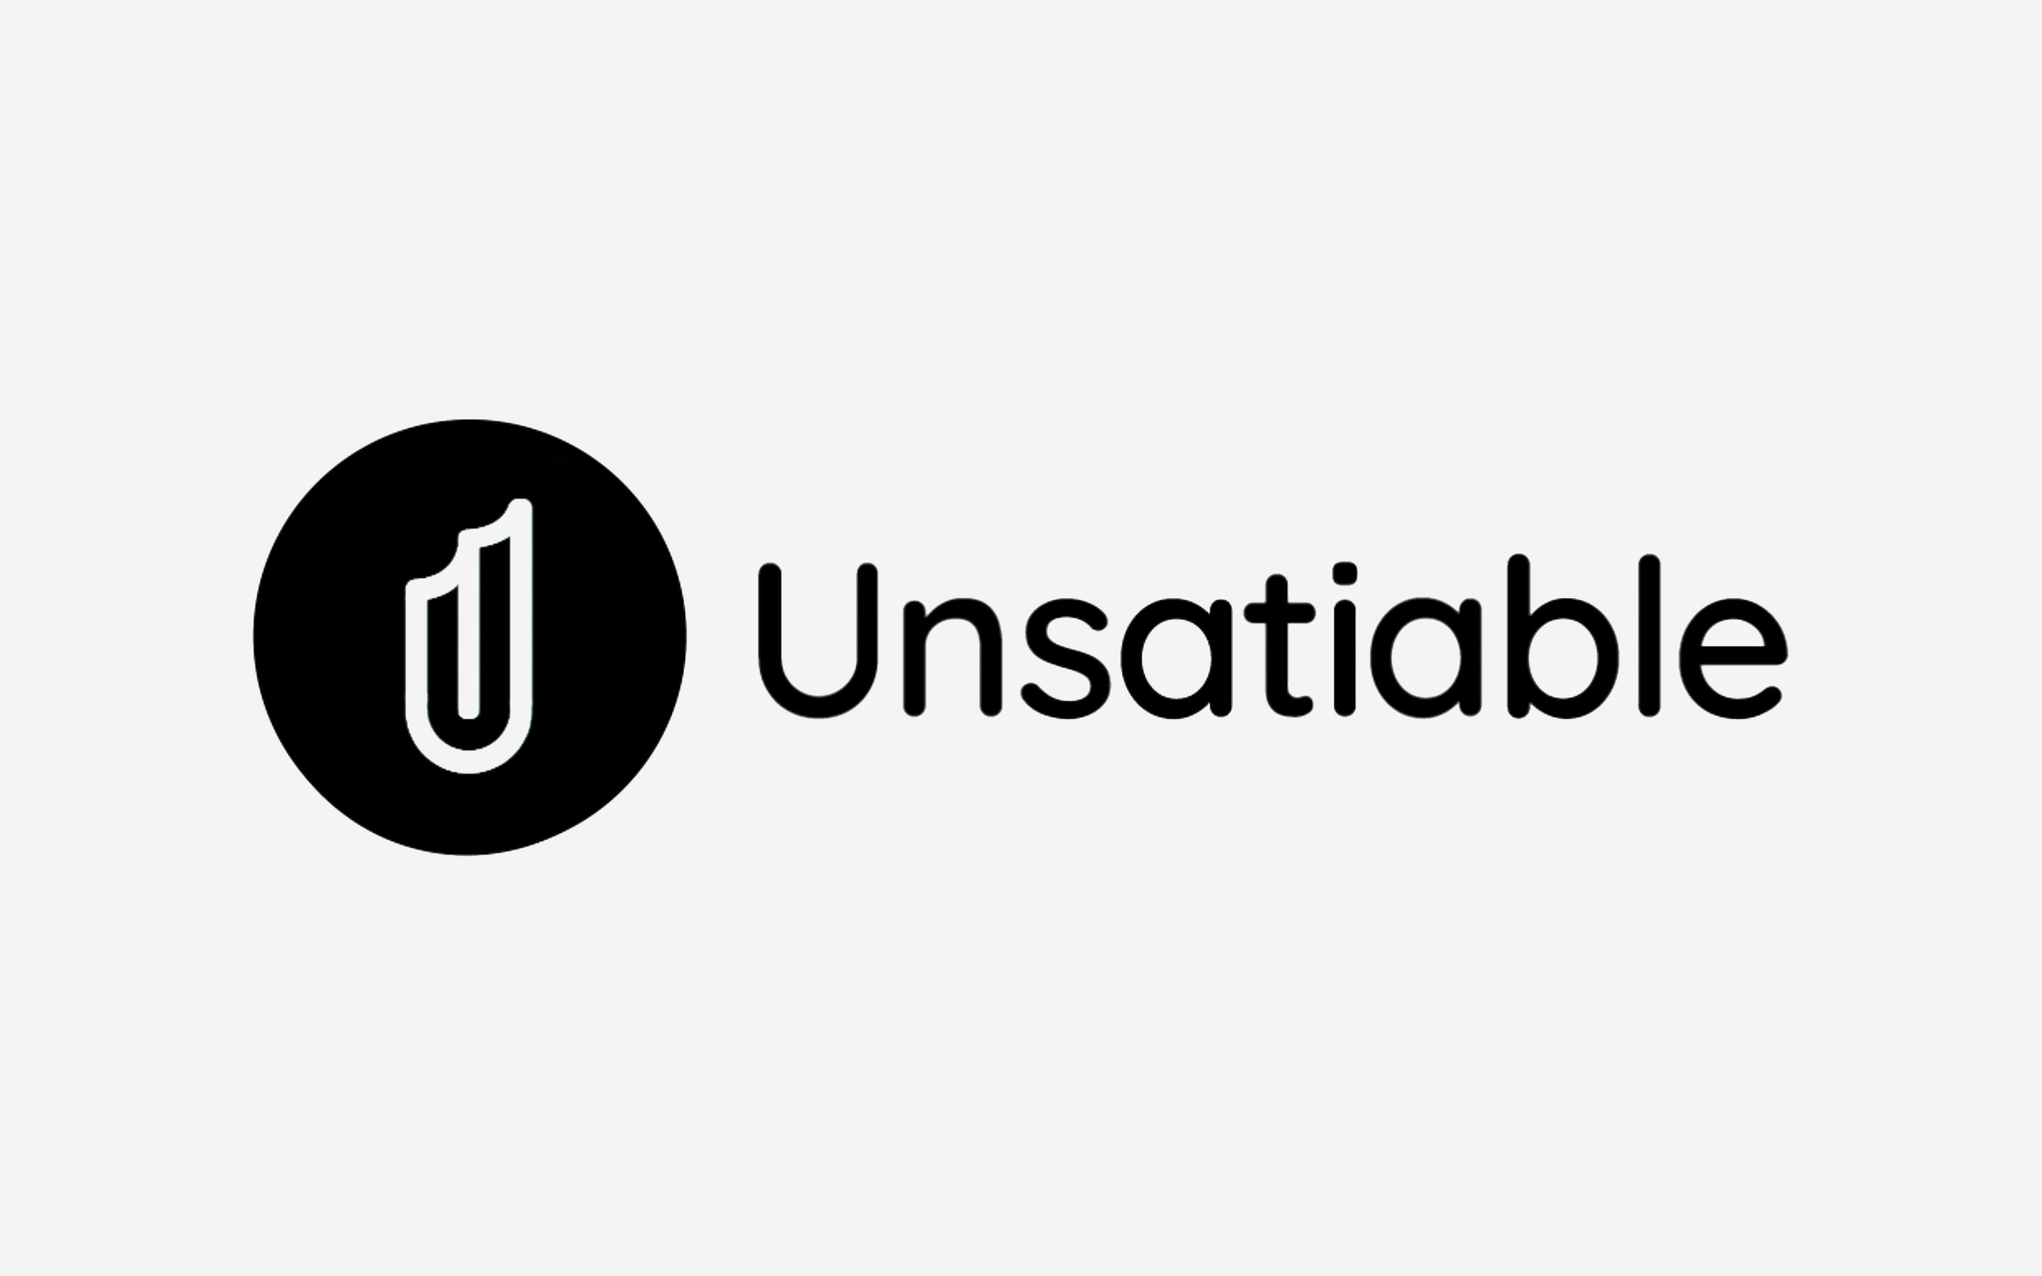
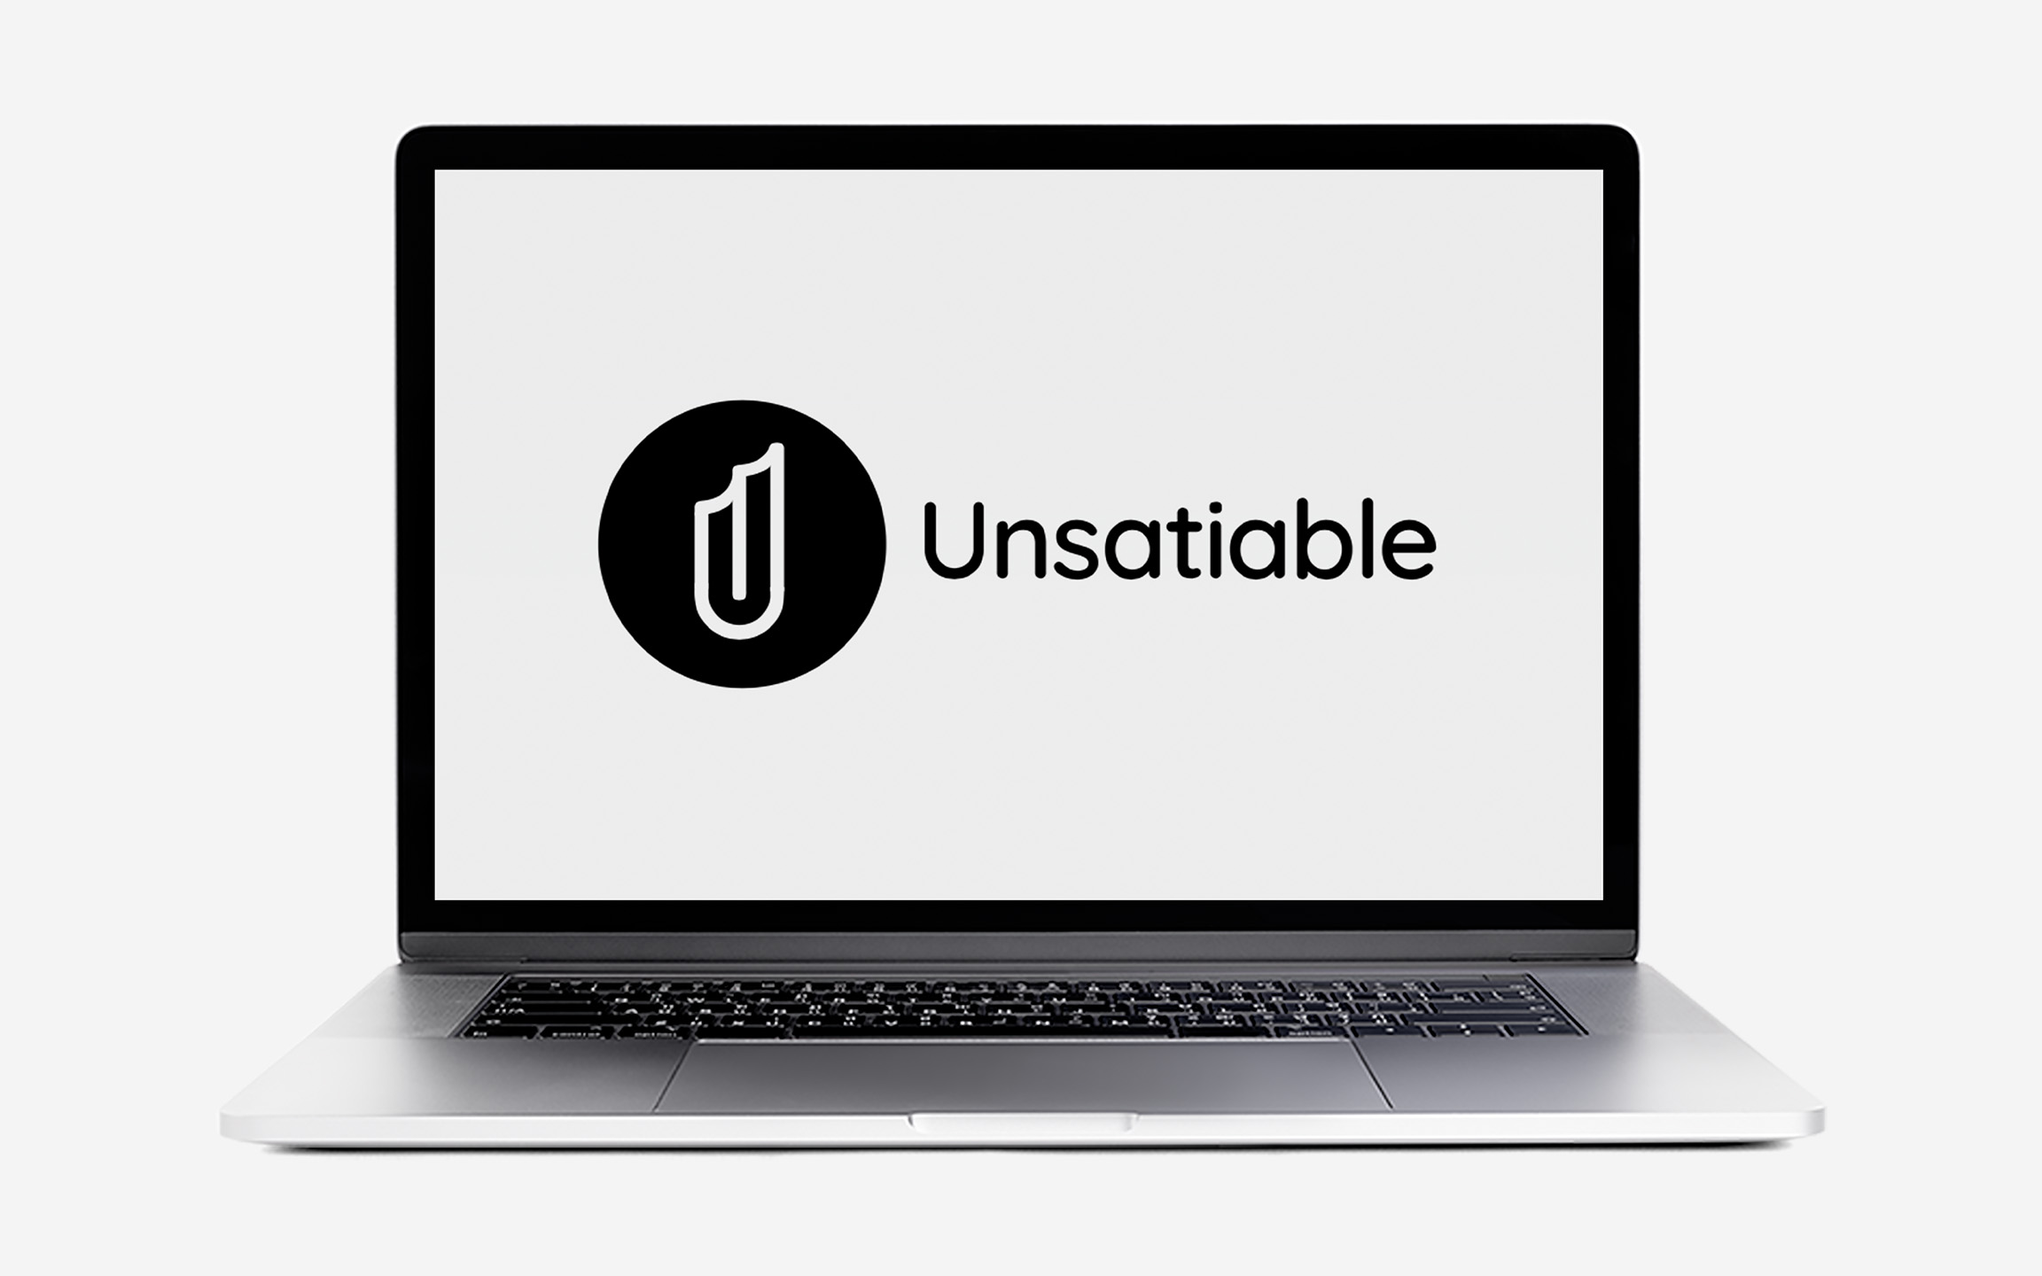
updated links and desktop for home page

Changed region(s): [[0.125, 0.0938, 0.875, 0.9062]]

diff --git a/program-book/css/styles.css b/program-book/css/styles.css
@@ -8,6 +8,7 @@ ul {
 }
 
 .menu {
+    /* this is for the hamburger menu on mobile */
     position: absolute;
     right: 2rem;
     top: 3.6rem;
@@ -31,7 +32,8 @@ ul {
     display: none;
 }
 
-.Unsatiable h1 { /* my name*/
+.Unsatiable h1 {
+    /* my name*/
     color: rgb(255, 255, 255);
     font-size: 11pt;
     font-weight: 900;
@@ -43,7 +45,8 @@ ul {
     font-weight: 100;
 }
 
-.intro p { /* paragraph under first image */
+.intro p {
+    /* paragraph under first image */
     color: rgb(255, 255, 255);
     padding-left: 2rem;
     padding-right: 2rem;
@@ -52,7 +55,8 @@ ul {
     font-size: 11pt;
 }
 
-.process-p { /* paragraph under process*/
+.process-p {
+    /* paragraph under process*/
     color: rgb(0, 0, 0);
     padding: 2rem;
     font-weight: 100;
@@ -93,19 +97,6 @@ h2 {
     font-weight: 65;
     font-weight: 100;
 }
-
-/* home page images */
-.unsatiable-image {
-    padding: 2rem;
-    padding-bottom: 1rem;
-    padding-top: 2rem;
-}
-
-/* not letting me hide it just for mobile??
-.menu-options {
-   display: none;
-}
-*/
 
 /* end of home page images */
 
@@ -179,26 +170,107 @@ h2 {
         padding-bottom: 2.5rem;
     }
 
-    .menu-options {
+    .Unsatiable .menu-options {
         margin: 0 auto;
         font-weight: 100;
         line-height: 3rem;
         font-size: 15pt;
         padding-left: 5rem;
-        margin-top: -127rem; /* this keeps changing if I edit the bottom */
+        margin-top: -127rem;
+        /* this keeps changing if I edit the bottom */
     }
 
-    nav ul { /* gets rid of bullet point */
+    nav ul {
+        /* gets rid of bullet point */
         list-style: none;
     }
 
-    nav a { /* links */
+    nav a {
+        /* links */
         text-decoration: underline;
-        color: red;
+        color: rgb(255, 0, 0);
     }
 
-    .second-link {
+    .Unsatiable .second-link {
         font-weight: bold;
         text-decoration: none;
     }
+
+
+
+
+
+
+    .main .first-link {
+        font-weight: bold;
+        text-decoration: none;
+    }
+
+    .main h1 {
+        color: rgb(0, 0, 0);
+        font-weight: 900;
+        font-size: 15pt;
+        padding-left: 5rem;
+        padding-top: 3rem;
+    }
+
+    .main h2 {
+        color: rgb(0, 0, 0);
+        font-weight: 100;
+        font-size: 15pt;
+        padding-left: 5rem;
+    }
+
+    .main .menu-options {
+        margin: 0 auto;
+        font-weight: 100;
+        line-height: 3rem;
+        font-size: 15pt;
+        padding-left: 5rem;
+        margin-top: 4.2rem;
+    }
+
+    .main .main-images {
+        columns: 1;
+        padding-left: 22.2rem;
+        padding-right: 22.2rem;
+        margin-top: -26rem;
+    }
+
+    .main .unsatiable-image {
+        padding-bottom: 3rem;
+    }
+
+    .main .looza {
+        padding-bottom: 3rem;
+    }
+
+    .main .preservatives {
+        padding-bottom: 3rem;
+    }
+
+    .main .psaid {
+        padding-bottom: 3rem;
+    }
+
+    .main .app {
+        padding-bottom: 3rem;
+    }
+
+    .main .clothing {
+        padding-bottom: 3rem;
+    }
+
+    .main .snickerdoodle {
+        padding-bottom: 3rem;
+    }
+
+    .main .mlk {
+        padding-bottom: 3rem;
+    }
+
+   
+
+
+
 }

diff --git a/program-book/index.html b/program-book/index.html
@@ -14,39 +14,48 @@
   <link rel="stylesheet" href="css/styles.css">
 </head>
 
-<body>
-<!-- Add your content here -->
 
-<nav>
-  <ul>
-    <li class="unsat-button"><a href="unsatiable.html" title="Unsatiable">Unsatiable</a></li>
-  </ul>
-</nav>
 
-<div class="menu">
-  <i class="fa-solid fa-bars"></i>
-</div>
 
-<h1>Nikole Henriques</h1>
-<h2>Herberger Institute of Design</h2>
+<body class="main">
+  <!-- Add your content here -->
 
-<img class="unsatiable-image" src="img/unsatiable.jpg" alt="#" />
+  <div class="menu">
+    <i class="fa-solid fa-bars"></i>
+  </div>
 
-<img class="looza" src="img/looza.jpg" alt="#" />
+  <h1>Nikole Henriques</h1>
+  <h2>Herberger Institute of Design</h2>
 
-<img class="preservatives" src="img/preservatives.jpg" alt="#" />
+  <div class="menu-options">
+    <nav>
+      <ul>
+        <li><a class="first-link" href=" .html" title="All Projects">All Projects</a></li>
+        <li><a class="second-link" href="unsatiable.html" title="Logo Animation">Logo Animation</a></li>
+        <li><a class="third-link" href="looza.html" title="Logo Animation">Beverage Website</a></li>
+        <li><a class="fourth-link" href="preservatives.html" title="Logo Animation">Preservatives Infographic</a></li>
+        <li><a class="fifth-link" href="psaid.html" title="Logo Animation">PSAid Gif</a></li>
+        <li><a class="sixth-link" href="app.html" title="Logo Animation">Cybersecurity App</a></li>
+        <li><a class="seventh-link" href="clothing.html" title="Clothing">Clothing Website</a></li>
+        <li><a class="eighth-link" href="recipe.html" title="Logo Animation">Coded Recipe Website</a></li>
+        <li><a class="ninth-link" href="mlk.html" title="Logo Animation">MLK Committee Website</a></li>
+      </ul>
+    </nav>
+  </div>
 
-<img class="psaid" src="img/psaid.jpg" alt="#" />
+  <div class="main-images">
+    <img class="unsatiable-image" src="img/unsatiable.jpg" alt="#" />
+    <img class="looza" src="img/looza.jpg" alt="#" />
+    <img class="preservatives" src="img/preservatives.jpg" alt="#" />
+    <img class="psaid" src="img/psaid.jpg" alt="#" />
+    <img class="app" src="img/app.jpg" alt="#" /> <!-- update this when app is done-->
+    <img class="clothing" src="img/clothing.jpg" alt="#" />
+    <img class="snickerdoodle" src="img/snickerdoodle.jpg" alt="#" />
+    <img class="mlk" src="img/mlk.jpg" alt="#" />
+  </div>
 
-<img class="app" src="img/app.jpg" alt="#" /> <!-- update this when app is done-->
-
-<img class="clothing" src="img/clothing.jpg" alt="#" />
-
-<img class="snickerdoodle" src="img/snickerdoodle.jpg" alt="#" />
-
-<img class="mlk" src="img/mlk.jpg" alt="#" />
-
-<!-- Load Scripts -->
-<script src="js/scripts.js"></script>
+  <!-- Load Scripts -->
+  <script src="js/scripts.js"></script>
 </body>
+
 </html>

diff --git a/program-book/app.html b/program-book/app.html
@@ -67,13 +67,13 @@
       <ul>
         <li><a class="first-link" href="index.html" title="All Projects">All Projects</a></li>
         <li><a class="second-link" href=".html" title="Logo Animation">Logo Animation</a></li>
-        <li><a class="third-link" href="looza.html" title="Logo Animation">Beverage Website</a></li>
-        <li><a class="fourth-link" href="preservatives.html" title="Logo Animation">Preservatives Infographic</a></li>
-        <li><a class="fifth-link" href="psaid.html" title="Logo Animation">PSAid Gif</a></li>
-        <li><a class="sixth-link" href="app.html" title="Logo Animation">Cybersecurity App</a></li>
-        <li><a class="seventh-link" href="clothing.html" title="Logo Animation">Clothing Website</a></li>
-        <li><a class="eighth-link" href="recipe.html" title="Logo Animation">Coded Recipe Website</a></li>
-        <li><a class="ninth-link" href="mlk.html" title="Logo Animation">MLK Committee Website</a></li>
+        <li><a class="third-link" href=".html" title="Logo Animation">Beverage Website</a></li>
+        <li><a class="fourth-link" href=".html" title="Logo Animation">Preservatives Infographic</a></li>
+        <li><a class="fifth-link" href=".html" title="Logo Animation">PSAid Gif</a></li>
+        <li><a class="sixth-link" href=".html" title="Logo Animation">Cybersecurity App</a></li>
+        <li><a class="seventh-link" href=".html" title="Logo Animation">Clothing Website</a></li>
+        <li><a class="eighth-link" href=".html" title="Logo Animation">Coded Recipe Website</a></li>
+        <li><a class="ninth-link" href=".html" title="Logo Animation">MLK Committee Website</a></li>
       </ul>
     </nav>
   </div>

diff --git a/program-book/clothing.html b/program-book/clothing.html
@@ -67,13 +67,13 @@
       <ul>
         <li><a class="first-link" href="index.html" title="All Projects">All Projects</a></li>
         <li><a class="second-link" href=".html" title="Logo Animation">Logo Animation</a></li>
-        <li><a class="third-link" href="looza.html" title="Logo Animation">Beverage Website</a></li>
-        <li><a class="fourth-link" href="preservatives.html" title="Logo Animation">Preservatives Infographic</a></li>
-        <li><a class="fifth-link" href="psaid.html" title="Logo Animation">PSAid Gif</a></li>
-        <li><a class="sixth-link" href="app.html" title="Logo Animation">Cybersecurity App</a></li>
-        <li><a class="seventh-link" href="clothing.html" title="Logo Animation">Clothing Website</a></li>
-        <li><a class="eighth-link" href="recipe.html" title="Logo Animation">Coded Recipe Website</a></li>
-        <li><a class="ninth-link" href="mlk.html" title="Logo Animation">MLK Committee Website</a></li>
+        <li><a class="third-link" href=".html" title="Logo Animation">Beverage Website</a></li>
+        <li><a class="fourth-link" href=".html" title="Logo Animation">Preservatives Infographic</a></li>
+        <li><a class="fifth-link" href=".html" title="Logo Animation">PSAid Gif</a></li>
+        <li><a class="sixth-link" href=".html" title="Logo Animation">Cybersecurity App</a></li>
+        <li><a class="seventh-link" href=".html" title="Logo Animation">Clothing Website</a></li>
+        <li><a class="eighth-link" href=".html" title="Logo Animation">Coded Recipe Website</a></li>
+        <li><a class="ninth-link" href=".html" title="Logo Animation">MLK Committee Website</a></li>
       </ul>
     </nav>
   </div>

diff --git a/program-book/looza.html b/program-book/looza.html
@@ -67,13 +67,13 @@
       <ul>
         <li><a class="first-link" href="index.html" title="All Projects">All Projects</a></li>
         <li><a class="second-link" href=".html" title="Logo Animation">Logo Animation</a></li>
-        <li><a class="third-link" href="looza.html" title="Logo Animation">Beverage Website</a></li>
-        <li><a class="fourth-link" href="preservatives.html" title="Logo Animation">Preservatives Infographic</a></li>
-        <li><a class="fifth-link" href="psaid.html" title="Logo Animation">PSAid Gif</a></li>
-        <li><a class="sixth-link" href="app.html" title="Logo Animation">Cybersecurity App</a></li>
-        <li><a class="seventh-link" href="clothing.html" title="Logo Animation">Clothing Website</a></li>
-        <li><a class="eighth-link" href="recipe.html" title="Logo Animation">Coded Recipe Website</a></li>
-        <li><a class="ninth-link" href="mlk.html" title="Logo Animation">MLK Committee Website</a></li>
+        <li><a class="third-link" href=".html" title="Logo Animation">Beverage Website</a></li>
+        <li><a class="fourth-link" href=".html" title="Logo Animation">Preservatives Infographic</a></li>
+        <li><a class="fifth-link" href=".html" title="Logo Animation">PSAid Gif</a></li>
+        <li><a class="sixth-link" href=".html" title="Logo Animation">Cybersecurity App</a></li>
+        <li><a class="seventh-link" href=".html" title="Logo Animation">Clothing Website</a></li>
+        <li><a class="eighth-link" href=".html" title="Logo Animation">Coded Recipe Website</a></li>
+        <li><a class="ninth-link" href=".html" title="Logo Animation">MLK Committee Website</a></li>
       </ul>
     </nav>
   </div>

diff --git a/program-book/mlk.html b/program-book/mlk.html
@@ -67,13 +67,13 @@
       <ul>
         <li><a class="first-link" href="index.html" title="All Projects">All Projects</a></li>
         <li><a class="second-link" href=".html" title="Logo Animation">Logo Animation</a></li>
-        <li><a class="third-link" href="looza.html" title="Logo Animation">Beverage Website</a></li>
-        <li><a class="fourth-link" href="preservatives.html" title="Logo Animation">Preservatives Infographic</a></li>
-        <li><a class="fifth-link" href="psaid.html" title="Logo Animation">PSAid Gif</a></li>
-        <li><a class="sixth-link" href="app.html" title="Logo Animation">Cybersecurity App</a></li>
-        <li><a class="seventh-link" href="clothing.html" title="Logo Animation">Clothing Website</a></li>
-        <li><a class="eighth-link" href="recipe.html" title="Logo Animation">Coded Recipe Website</a></li>
-        <li><a class="ninth-link" href="mlk.html" title="Logo Animation">MLK Committee Website</a></li>
+        <li><a class="third-link" href=".html" title="Logo Animation">Beverage Website</a></li>
+        <li><a class="fourth-link" href=".html" title="Logo Animation">Preservatives Infographic</a></li>
+        <li><a class="fifth-link" href=".html" title="Logo Animation">PSAid Gif</a></li>
+        <li><a class="sixth-link" href=".html" title="Logo Animation">Cybersecurity App</a></li>
+        <li><a class="seventh-link" href=".html" title="Logo Animation">Clothing Website</a></li>
+        <li><a class="eighth-link" href=".html" title="Logo Animation">Coded Recipe Website</a></li>
+        <li><a class="ninth-link" href=".html" title="Logo Animation">MLK Committee Website</a></li>
       </ul>
     </nav>
   </div>

diff --git a/program-book/preservatives.html b/program-book/preservatives.html
@@ -67,13 +67,13 @@
       <ul>
         <li><a class="first-link" href="index.html" title="All Projects">All Projects</a></li>
         <li><a class="second-link" href=".html" title="Logo Animation">Logo Animation</a></li>
-        <li><a class="third-link" href="looza.html" title="Logo Animation">Beverage Website</a></li>
-        <li><a class="fourth-link" href="preservatives.html" title="Logo Animation">Preservatives Infographic</a></li>
-        <li><a class="fifth-link" href="psaid.html" title="Logo Animation">PSAid Gif</a></li>
-        <li><a class="sixth-link" href="app.html" title="Logo Animation">Cybersecurity App</a></li>
-        <li><a class="seventh-link" href="clothing.html" title="Logo Animation">Clothing Website</a></li>
-        <li><a class="eighth-link" href="recipe.html" title="Logo Animation">Coded Recipe Website</a></li>
-        <li><a class="ninth-link" href="mlk.html" title="Logo Animation">MLK Committee Website</a></li>
+        <li><a class="third-link" href=".html" title="Logo Animation">Beverage Website</a></li>
+        <li><a class="fourth-link" href=".html" title="Logo Animation">Preservatives Infographic</a></li>
+        <li><a class="fifth-link" href=".html" title="Logo Animation">PSAid Gif</a></li>
+        <li><a class="sixth-link" href=".html" title="Logo Animation">Cybersecurity App</a></li>
+        <li><a class="seventh-link" href=".html" title="Logo Animation">Clothing Website</a></li>
+        <li><a class="eighth-link" href=".html" title="Logo Animation">Coded Recipe Website</a></li>
+        <li><a class="ninth-link" href=".html" title="Logo Animation">MLK Committee Website</a></li>
       </ul>
     </nav>
   </div>

diff --git a/program-book/psaid.html b/program-book/psaid.html
@@ -67,13 +67,13 @@
       <ul>
         <li><a class="first-link" href="index.html" title="All Projects">All Projects</a></li>
         <li><a class="second-link" href=".html" title="Logo Animation">Logo Animation</a></li>
-        <li><a class="third-link" href="looza.html" title="Logo Animation">Beverage Website</a></li>
-        <li><a class="fourth-link" href="preservatives.html" title="Logo Animation">Preservatives Infographic</a></li>
-        <li><a class="fifth-link" href="psaid.html" title="Logo Animation">PSAid Gif</a></li>
-        <li><a class="sixth-link" href="app.html" title="Logo Animation">Cybersecurity App</a></li>
-        <li><a class="seventh-link" href="clothing.html" title="Logo Animation">Clothing Website</a></li>
-        <li><a class="eighth-link" href="recipe.html" title="Logo Animation">Coded Recipe Website</a></li>
-        <li><a class="ninth-link" href="mlk.html" title="Logo Animation">MLK Committee Website</a></li>
+        <li><a class="third-link" href=".html" title="Logo Animation">Beverage Website</a></li>
+        <li><a class="fourth-link" href=".html" title="Logo Animation">Preservatives Infographic</a></li>
+        <li><a class="fifth-link" href=".html" title="Logo Animation">PSAid Gif</a></li>
+        <li><a class="sixth-link" href=".html" title="Logo Animation">Cybersecurity App</a></li>
+        <li><a class="seventh-link" href=".html" title="Logo Animation">Clothing Website</a></li>
+        <li><a class="eighth-link" href=".html" title="Logo Animation">Coded Recipe Website</a></li>
+        <li><a class="ninth-link" href=".html" title="Logo Animation">MLK Committee Website</a></li>
       </ul>
     </nav>
   </div>

diff --git a/program-book/recipe.html b/program-book/recipe.html
@@ -67,13 +67,13 @@
       <ul>
         <li><a class="first-link" href="index.html" title="All Projects">All Projects</a></li>
         <li><a class="second-link" href=".html" title="Logo Animation">Logo Animation</a></li>
-        <li><a class="third-link" href="looza.html" title="Logo Animation">Beverage Website</a></li>
-        <li><a class="fourth-link" href="preservatives.html" title="Logo Animation">Preservatives Infographic</a></li>
-        <li><a class="fifth-link" href="psaid.html" title="Logo Animation">PSAid Gif</a></li>
-        <li><a class="sixth-link" href="app.html" title="Logo Animation">Cybersecurity App</a></li>
-        <li><a class="seventh-link" href="clothing.html" title="Logo Animation">Clothing Website</a></li>
-        <li><a class="eighth-link" href="recipe.html" title="Logo Animation">Coded Recipe Website</a></li>
-        <li><a class="ninth-link" href="mlk.html" title="Logo Animation">MLK Committee Website</a></li>
+        <li><a class="third-link" href=".html" title="Logo Animation">Beverage Website</a></li>
+        <li><a class="fourth-link" href=".html" title="Logo Animation">Preservatives Infographic</a></li>
+        <li><a class="fifth-link" href=".html" title="Logo Animation">PSAid Gif</a></li>
+        <li><a class="sixth-link" href=".html" title="Logo Animation">Cybersecurity App</a></li>
+        <li><a class="seventh-link" href=".html" title="Logo Animation">Clothing Website</a></li>
+        <li><a class="eighth-link" href=".html" title="Logo Animation">Coded Recipe Website</a></li>
+        <li><a class="ninth-link" href=".html" title="Logo Animation">MLK Committee Website</a></li>
       </ul>
     </nav>
   </div>
